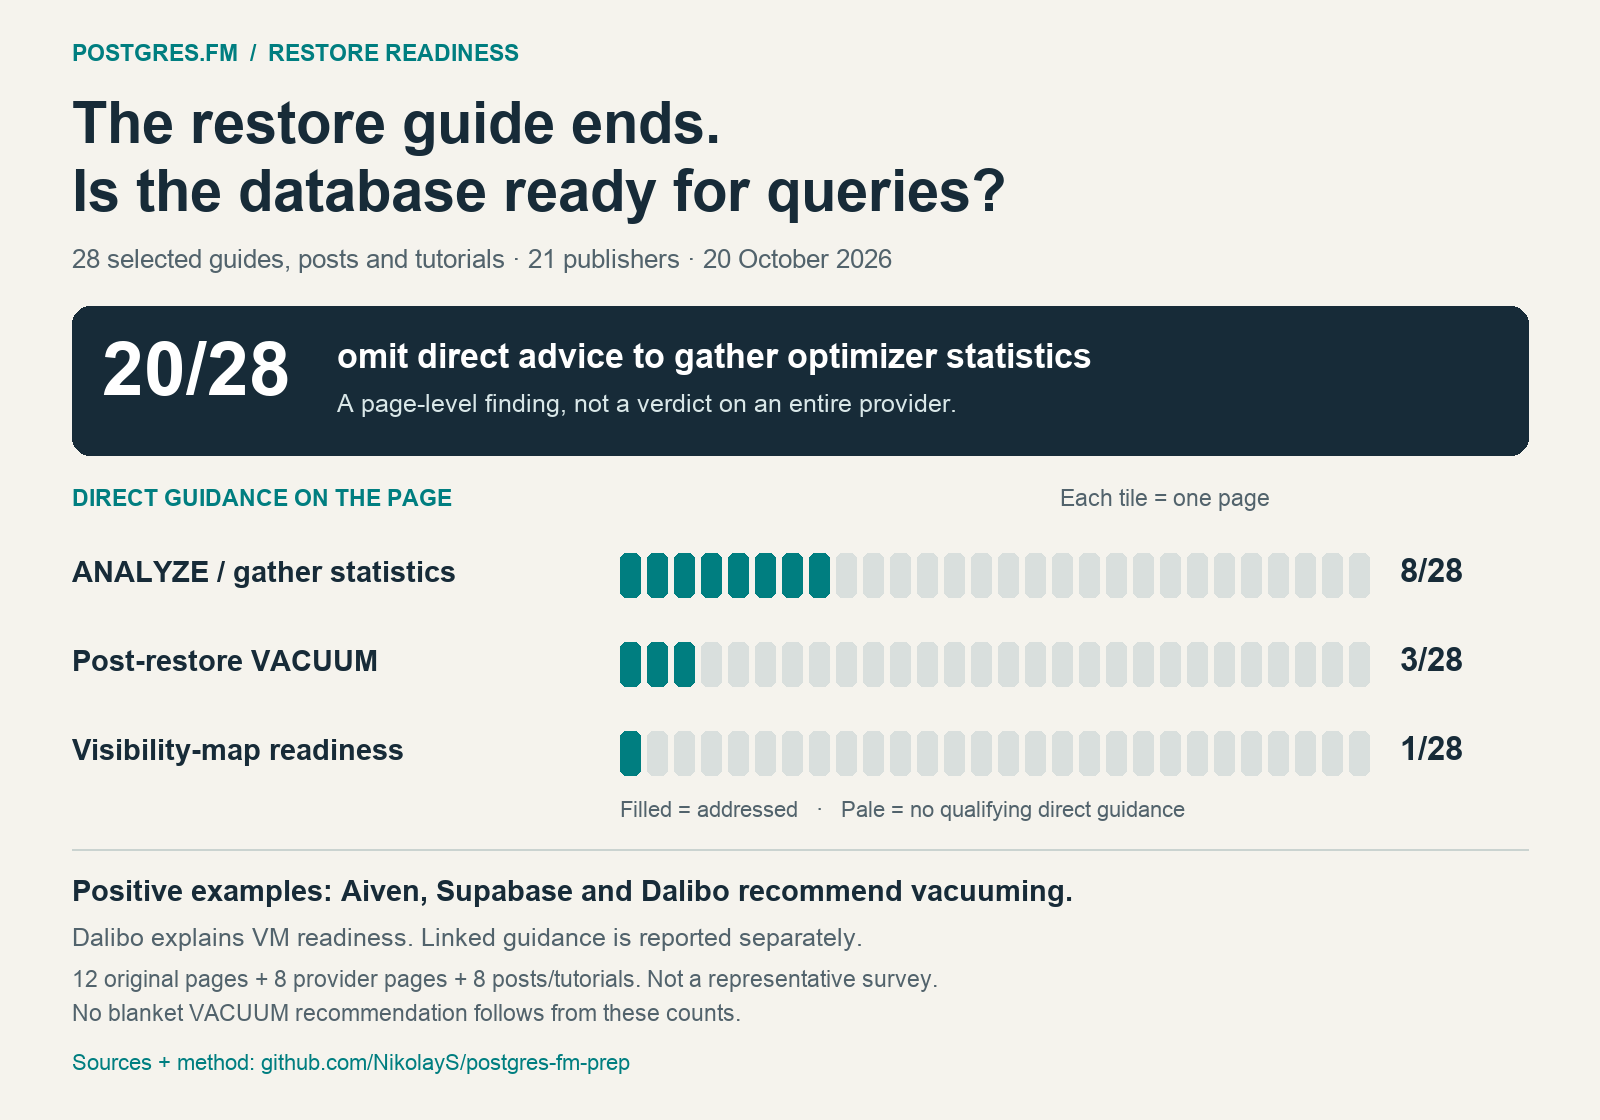
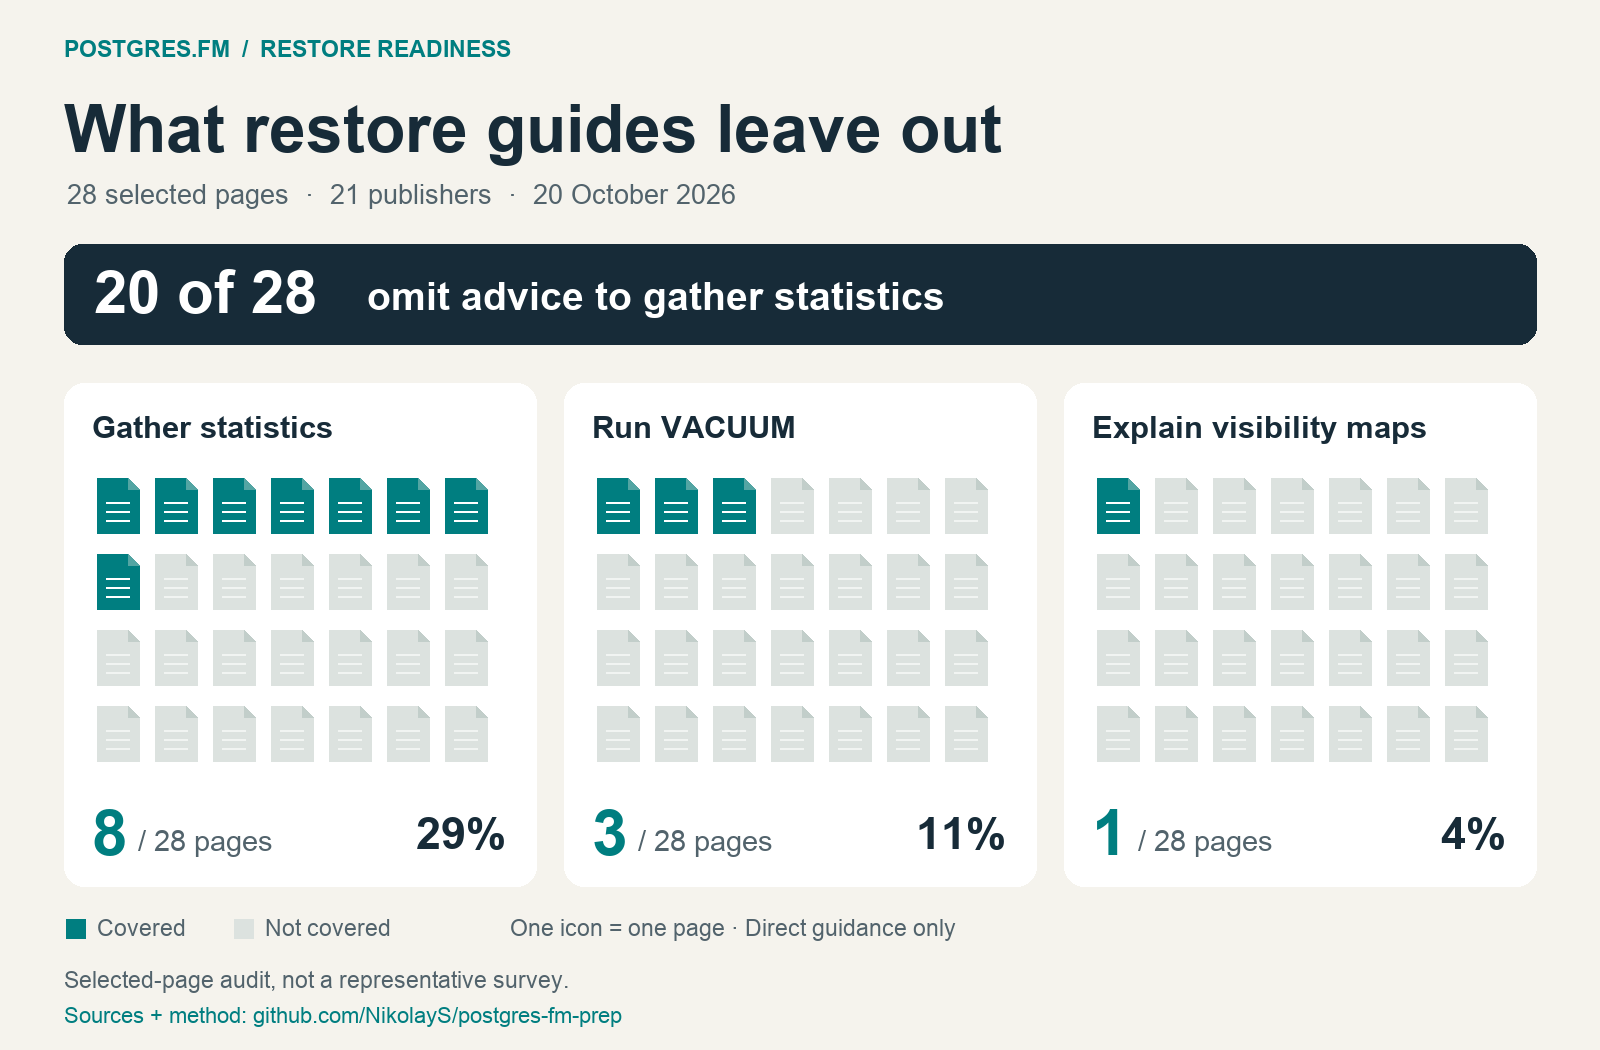
Redesign docs audit infographic around page-count grids

diff --git a/episodes/restore-readiness/assets/render_docs_expanded.py b/episodes/restore-readiness/assets/render_docs_expanded.py
@@ -1,5 +1,7 @@
-"""Render the audit summary from the published JSON. Requires Pillow.
+"""Render the audit infographic from published data. Requires Pillow.
+
 Run from any directory: python3 render_docs_expanded.py
+Each document glyph represents one inspected page; categories may overlap.
 """
 import json
 from pathlib import Path
@@ -8,44 +10,70 @@ from PIL import Image, ImageDraw, ImageFont
 HERE = Path(__file__).resolve().parent
 rows = json.loads((HERE.parent / 'restore-docs-expanded.json').read_text())['pages']
 n = len(rows)
-a = sum(r['analyze_action'] for r in rows)
-v = sum(r['post_restore_vacuum'] for r in rows)
-m = sum(r['visibility_map_readiness'] for r in rows)
-BG, INK, MUTED, TEAL, EMPTY = '#F5F3ED', '#172B38', '#52636C', '#007E80', '#D9DFDD'
-im = Image.new('RGB', (1600, 1120), BG)
+counts = [sum(r[key] for r in rows) for key in
+          ('analyze_action', 'post_restore_vacuum', 'visibility_map_readiness')]
+BG, INK, MUTED = '#F5F3ED', '#172B38', '#52636C'
+TEAL, EMPTY, WHITE = '#007E80', '#DCE2DF', '#FFFFFF'
+im = Image.new('RGB', (1600, 1050), BG)
 d = ImageDraw.Draw(im)
+
+
 def font(size, bold=False):
-    names = (['DejaVuSans-Bold.ttf', '/System/Library/Fonts/Supplemental/Arial Bold.ttf'] if bold else
-             ['DejaVuSans.ttf', '/System/Library/Fonts/Supplemental/Arial.ttf'])
+    names = (['DejaVuSans-Bold.ttf', '/System/Library/Fonts/Supplemental/Arial Bold.ttf']
+             if bold else ['DejaVuSans.ttf', '/System/Library/Fonts/Supplemental/Arial.ttf'])
     for name in names:
         try:
             return ImageFont.truetype(name, size)
         except OSError:
             pass
     raise RuntimeError('Install DejaVu Sans or Arial to render the chart.')
+
+
 def text(x, y, value, size=26, color=INK, bold=False):
-    d.text((x,y), value, font=font(size,bold), fill=color)
-text(72, 40, 'POSTGRES.FM  /  RESTORE READINESS', 23, TEAL, True)
-text(72, 90, 'The restore guide ends.', 58, bold=True)
-text(72, 158, 'Is the database ready for queries?', 58, bold=True)
-text(72, 244, f'{n} selected guides, posts and tutorials · 21 publishers · 20 October 2026', 26, MUTED)
-d.rounded_rectangle((72,306,1528,455), radius=18, fill=INK)
-text(102, 327, f'{n-a}/{n}', 75, '#FFFFFF', True)
-text(337, 337, 'omit direct advice to gather optimizer statistics', 34, '#FFFFFF', True)
-text(337, 389, 'A page-level finding, not a verdict on an entire provider.', 25, '#D9E7E8')
-text(72, 485, 'DIRECT GUIDANCE ON THE PAGE', 23, TEAL, True)
-text(1060, 485, 'Each tile = one page', 23, MUTED)
-for y, label, count in [(555,'ANALYZE / gather statistics',a),(644,'Post-restore VACUUM',v),(733,'Visibility-map readiness',m)]:
-    text(72,y,label,29,bold=True)
+    d.text((x, y), value, font=font(size, bold), fill=color)
+
+
+def page(x, y, filled):
+    color = TEAL if filled else EMPTY
+    w, h, fold = 42, 55, 11
+    d.polygon([(x, y), (x+w-fold, y), (x+w, y+fold),
+               (x+w, y+h), (x, y+h)], fill=color)
+    d.polygon([(x+w-fold, y), (x+w-fold, y+fold), (x+w, y+fold)],
+              fill='#53A5A3' if filled else '#C2CECA')
+    for dy in (24, 33, 42):
+        d.line((x+9, y+dy, x+w-10, y+dy), fill=WHITE if filled else '#F1F4F2', width=2)
+
+
+text(64, 36, 'POSTGRES.FM  /  RESTORE READINESS', 23, TEAL, True)
+text(64, 92, 'What restore guides leave out', 66, bold=True)
+text(67, 179, f'{n} selected pages  ·  21 publishers  ·  20 October 2026', 27, MUTED)
+
+# One sentence carries the headline; the graphic carries the comparison.
+d.rounded_rectangle((64, 244, 1536, 344), radius=18, fill=INK)
+text(94, 258, f'{n-counts[0]} of {n}', 60, WHITE, True)
+text(367, 274, 'omit advice to gather statistics', 39, WHITE, True)
+
+labels = ['Gather statistics', 'Run VACUUM', 'Explain visibility maps']
+for i, (label, count) in enumerate(zip(labels, counts)):
+    x = 64 + i * 500
+    d.rounded_rectangle((x, 383, x+472, 886), radius=20, fill=WHITE)
+    text(x+28, 409, label, 31, bold=True)
+    # Seven columns and four rows: every category shows all 28 pages.
     for j in range(n):
-        x=620+j*27
-        d.rounded_rectangle((x,y-2,x+20,y+42),radius=6,fill=TEAL if j<count else EMPTY)
-    text(1400,y-3,f'{count}/{n}',33,bold=True)
-text(620, 797, 'Filled = addressed   ·   Pale = no qualifying direct guidance',22,MUTED)
-d.line((72,849,1528,849),fill='#CAD3D0',width=2)
-text(72,874,'Positive examples: Aiven, Supabase and Dalibo recommend vacuuming.',29,bold=True)
-text(72,923,'Dalibo explains VM readiness. Linked guidance is reported separately.',25,MUTED)
-text(72,966,'12 original pages + 8 provider pages + 8 posts/tutorials. Not a representative survey.',23,MUTED)
-text(72,1000,'No blanket VACUUM recommendation follows from these counts.',23,MUTED)
-text(72,1050,'Sources + method: github.com/NikolayS/postgres-fm-prep',22,TEAL)
+        page(x+33+(j%7)*58, 478+(j//7)*76, j<count)
+    text(x+28, 797, str(count), 64, TEAL, True)
+    offset = d.textlength(str(count), font=font(64, True))
+    text(x+38+offset, 824, f'/ {n} pages', 29, MUTED)
+    percent = f'{count/n:.0%}'
+    width = d.textlength(percent, font=font(45, True))
+    text(x+442-width, 808, percent, 45, INK, True)
+
+# Keep the essential sampling qualification on the image; details live in the report.
+d.rectangle((66, 919, 85, 938), fill=TEAL)
+text(97, 915, 'Covered', 23, MUTED)
+d.rectangle((234, 919, 253, 938), fill=EMPTY)
+text(265, 915, 'Not covered', 23, MUTED)
+text(510, 915, 'One icon = one page · Direct guidance only', 23, MUTED)
+text(64, 967, 'Selected-page audit, not a representative survey.', 23, MUTED)
+text(64, 1003, 'Sources + method: github.com/NikolayS/postgres-fm-prep', 22, TEAL)
 im.save(HERE / 'restore-docs-expanded-summary.png', optimize=True)
